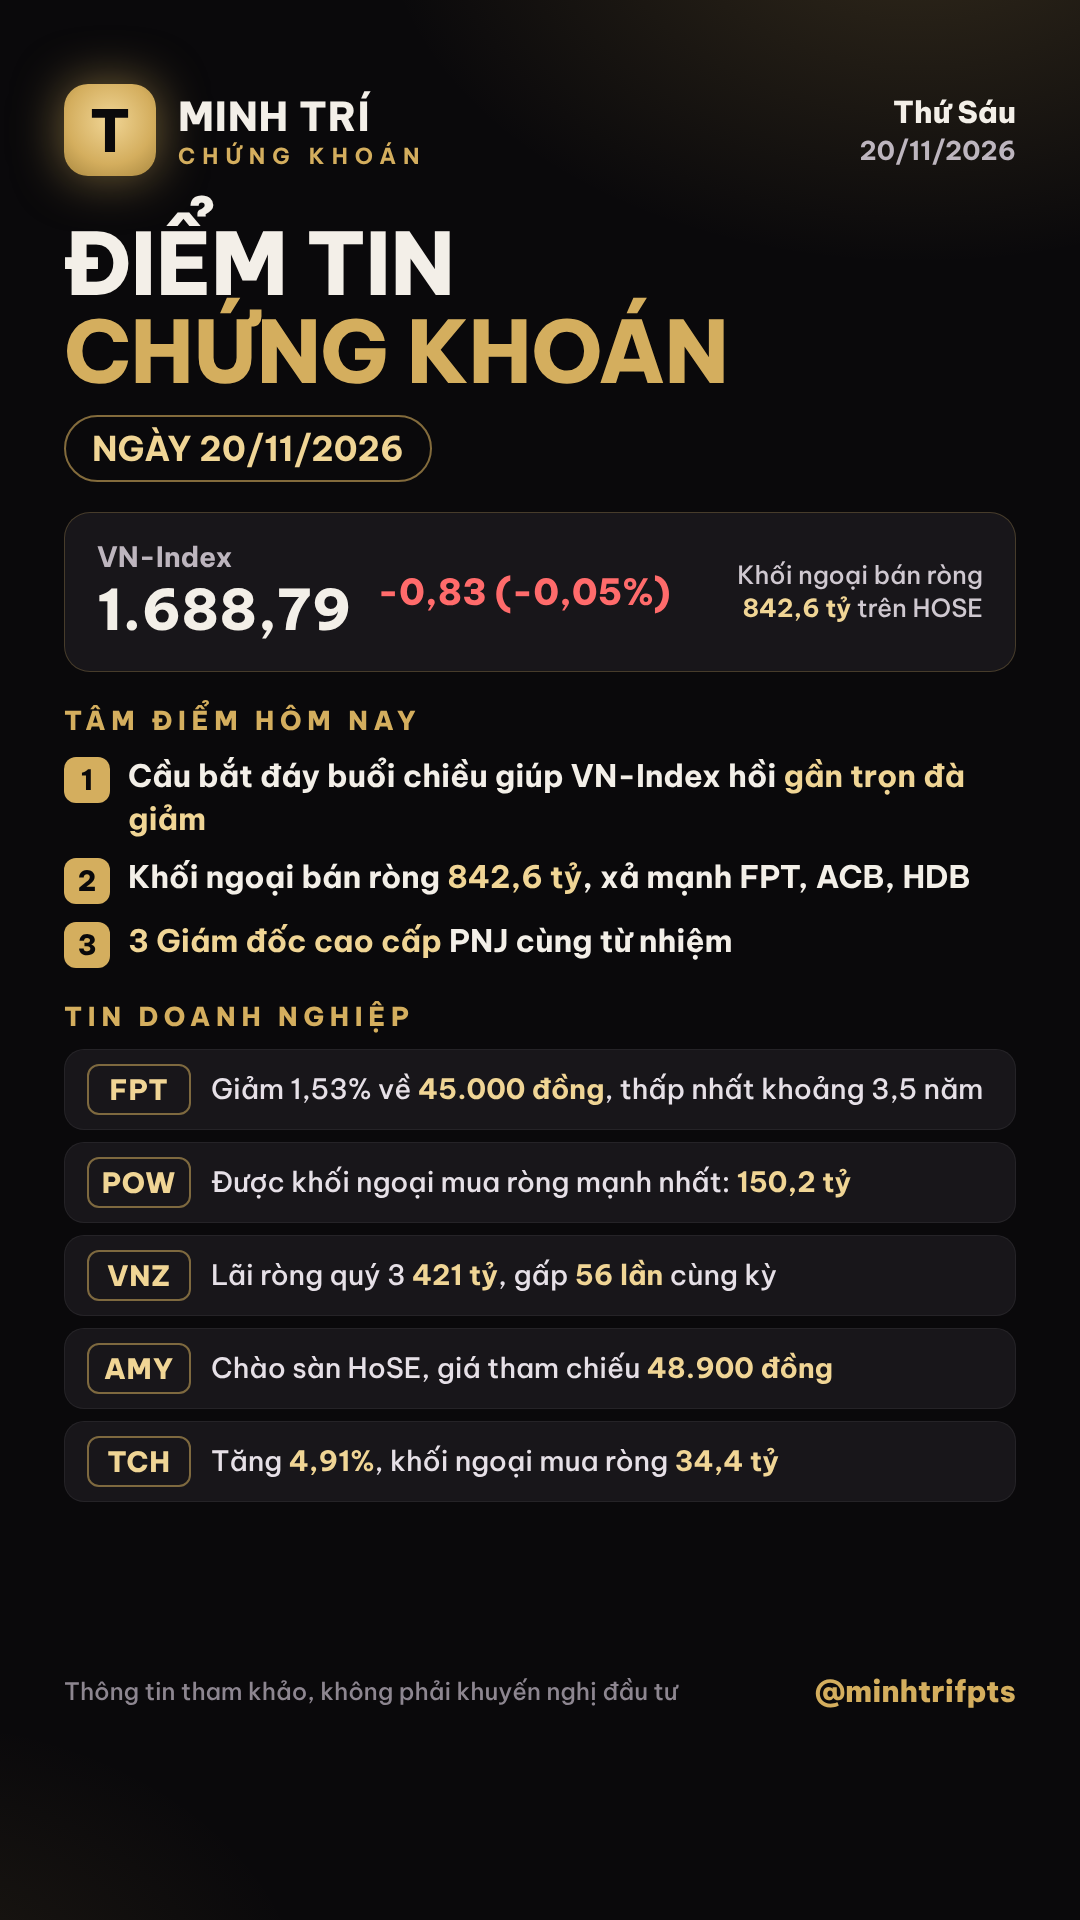
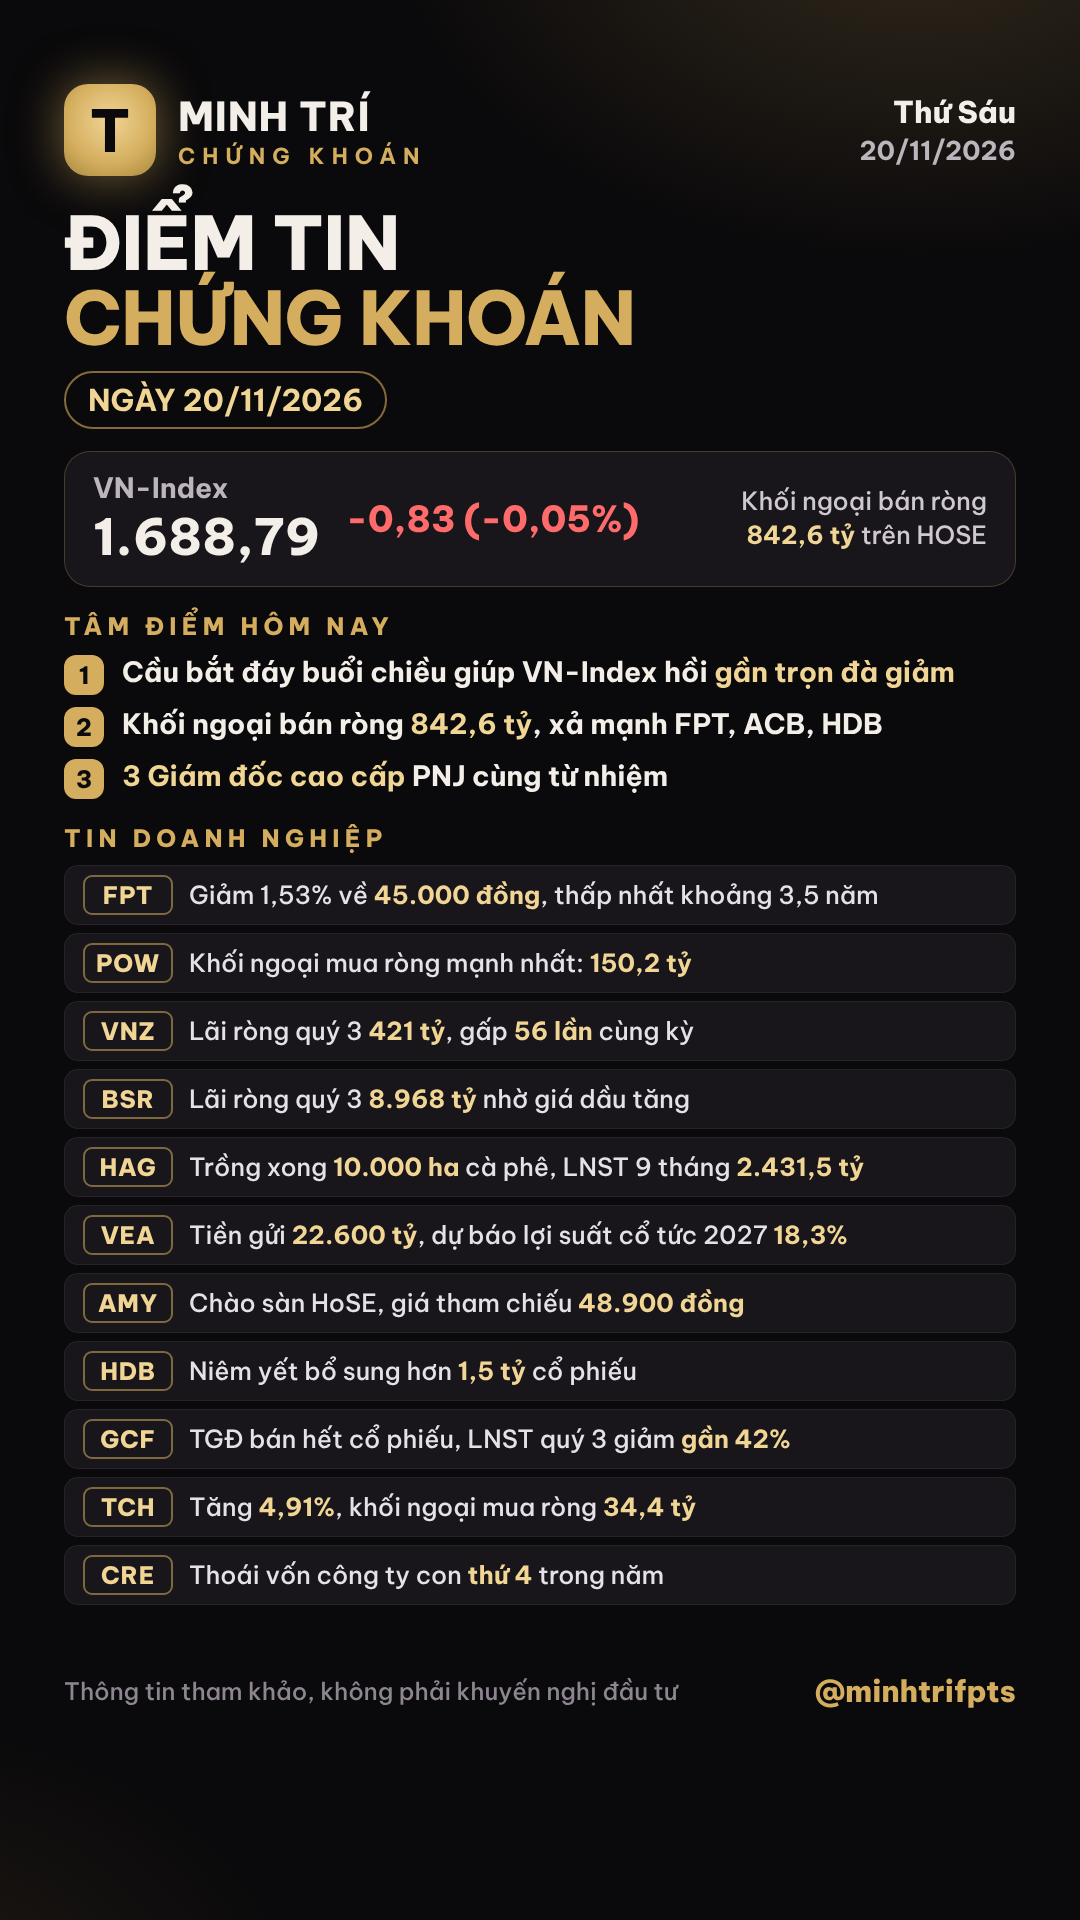
Ảnh TikTok: chế độ gọn, tối đa 11 tin doanh nghiệp
Claude-Session: https://claude.ai/code/session_012mGV8xVjJZdiFDLkgA4X3A

Changed region(s): [[0.0611, 0.0938, 0.9167, 0.8438]]

diff --git a/scripts/tiktok/diem-tin.html b/scripts/tiktok/diem-tin.html
@@ -31,6 +31,17 @@ h1 span{display:block;color:#D4AE5E}
 em{font-style:normal;color:#F0D595;font-weight:700}
 .ft{margin-top:auto;padding-top:20px;display:flex;justify-content:space-between;align-items:center;font-size:24px;color:#8d8690}
 .ft b{color:#D4AE5E;font-size:30px;font-weight:800}
+
+/* chế độ gọn khi nhiều tin (từ 7 tin) */
+.dense h1{margin-top:30px;font-size:74px}
+.dense .dt{margin-top:14px;font-size:30px;padding:8px 22px}
+.dense .ix{margin-top:22px;padding:18px 28px}.dense .ix .v{font-size:50px}
+.dense .sec{margin-top:24px;font-size:24px}
+.dense .td{margin-top:12px;gap:10px}.dense .td div{font-size:28px}.dense .td i{width:40px;height:40px;font-size:24px}
+.dense .ls{margin-top:12px;gap:8px}
+.dense .it{padding:9px 18px;gap:16px;border-radius:14px}
+.dense .tk{min-width:90px;font-size:24px;padding:3px 0;border-radius:9px}
+.dense .it p{font-size:25px;line-height:1.3}
 </style></head><body>
 <div class="pg" id="pg"></div>
 <script>
@@ -44,5 +55,5 @@ if(D.vnindex)h+=`<div class="ix"><div><div class="n">VN-Index</div><div class="v
 h+=`<div class="sec">TÂM ĐIỂM HÔM NAY</div><div class="td">${D.tam_diem.map((t,i)=>`<div><i>${i+1}</i><span>${hl(t)}</span></div>`).join('')}</div>`;
 h+=`<div class="sec">TIN DOANH NGHIỆP</div><div class="ls">${D.tin.map(t=>`<div class="it"><div class="tk">${e(t.ma)}</div><p>${hl(t.noi_dung)}</p></div>`).join('')}</div>`;
 h+=`<div class="ft"><span>Thông tin tham khảo, không phải khuyến nghị đầu tư</span><b>@minhtrifpts</b></div>`;
-document.getElementById('pg').innerHTML=h;
+const P=document.getElementById('pg');if(D.tin.length>6)P.classList.add('dense');P.innerHTML=h;
 </script></body></html>

diff --git a/scripts/tiktok/render.py b/scripts/tiktok/render.py
@@ -7,7 +7,7 @@ du-lieu.json:
   "ngay": "20/11/2026", "thu": "Thứ Sáu",
   "vnindex": {"diem": "1.670,01", "thay_doi": "-19,61 (-1,16%)", "ghi_chu": "Khối ngoại bán ròng **xxx tỷ**"},   (có thể bỏ)
   "tam_diem": ["3 câu ngắn, bọc số liệu nổi bật trong **...**"],
-  "tin": [{"ma": "FPT", "noi_dung": "1–2 dòng ngắn"}]   (nên 5 tin, mỗi tin 1 dòng; giữ trống ~200px đáy cho phần chữ TikTok)
+  "tin": [{"ma": "FPT", "noi_dung": "1–2 dòng ngắn"}]   (9–11 tin doanh nghiệp, mỗi tin 1 dòng ngắn ~45 ký tự; từ 7 tin mẫu tự chuyển chế độ gọn; giữ trống ~200px đáy cho phần chữ TikTok)
 }
 Không ghi số điện thoại / Zalo (ảnh dùng cho TikTok).
 """
